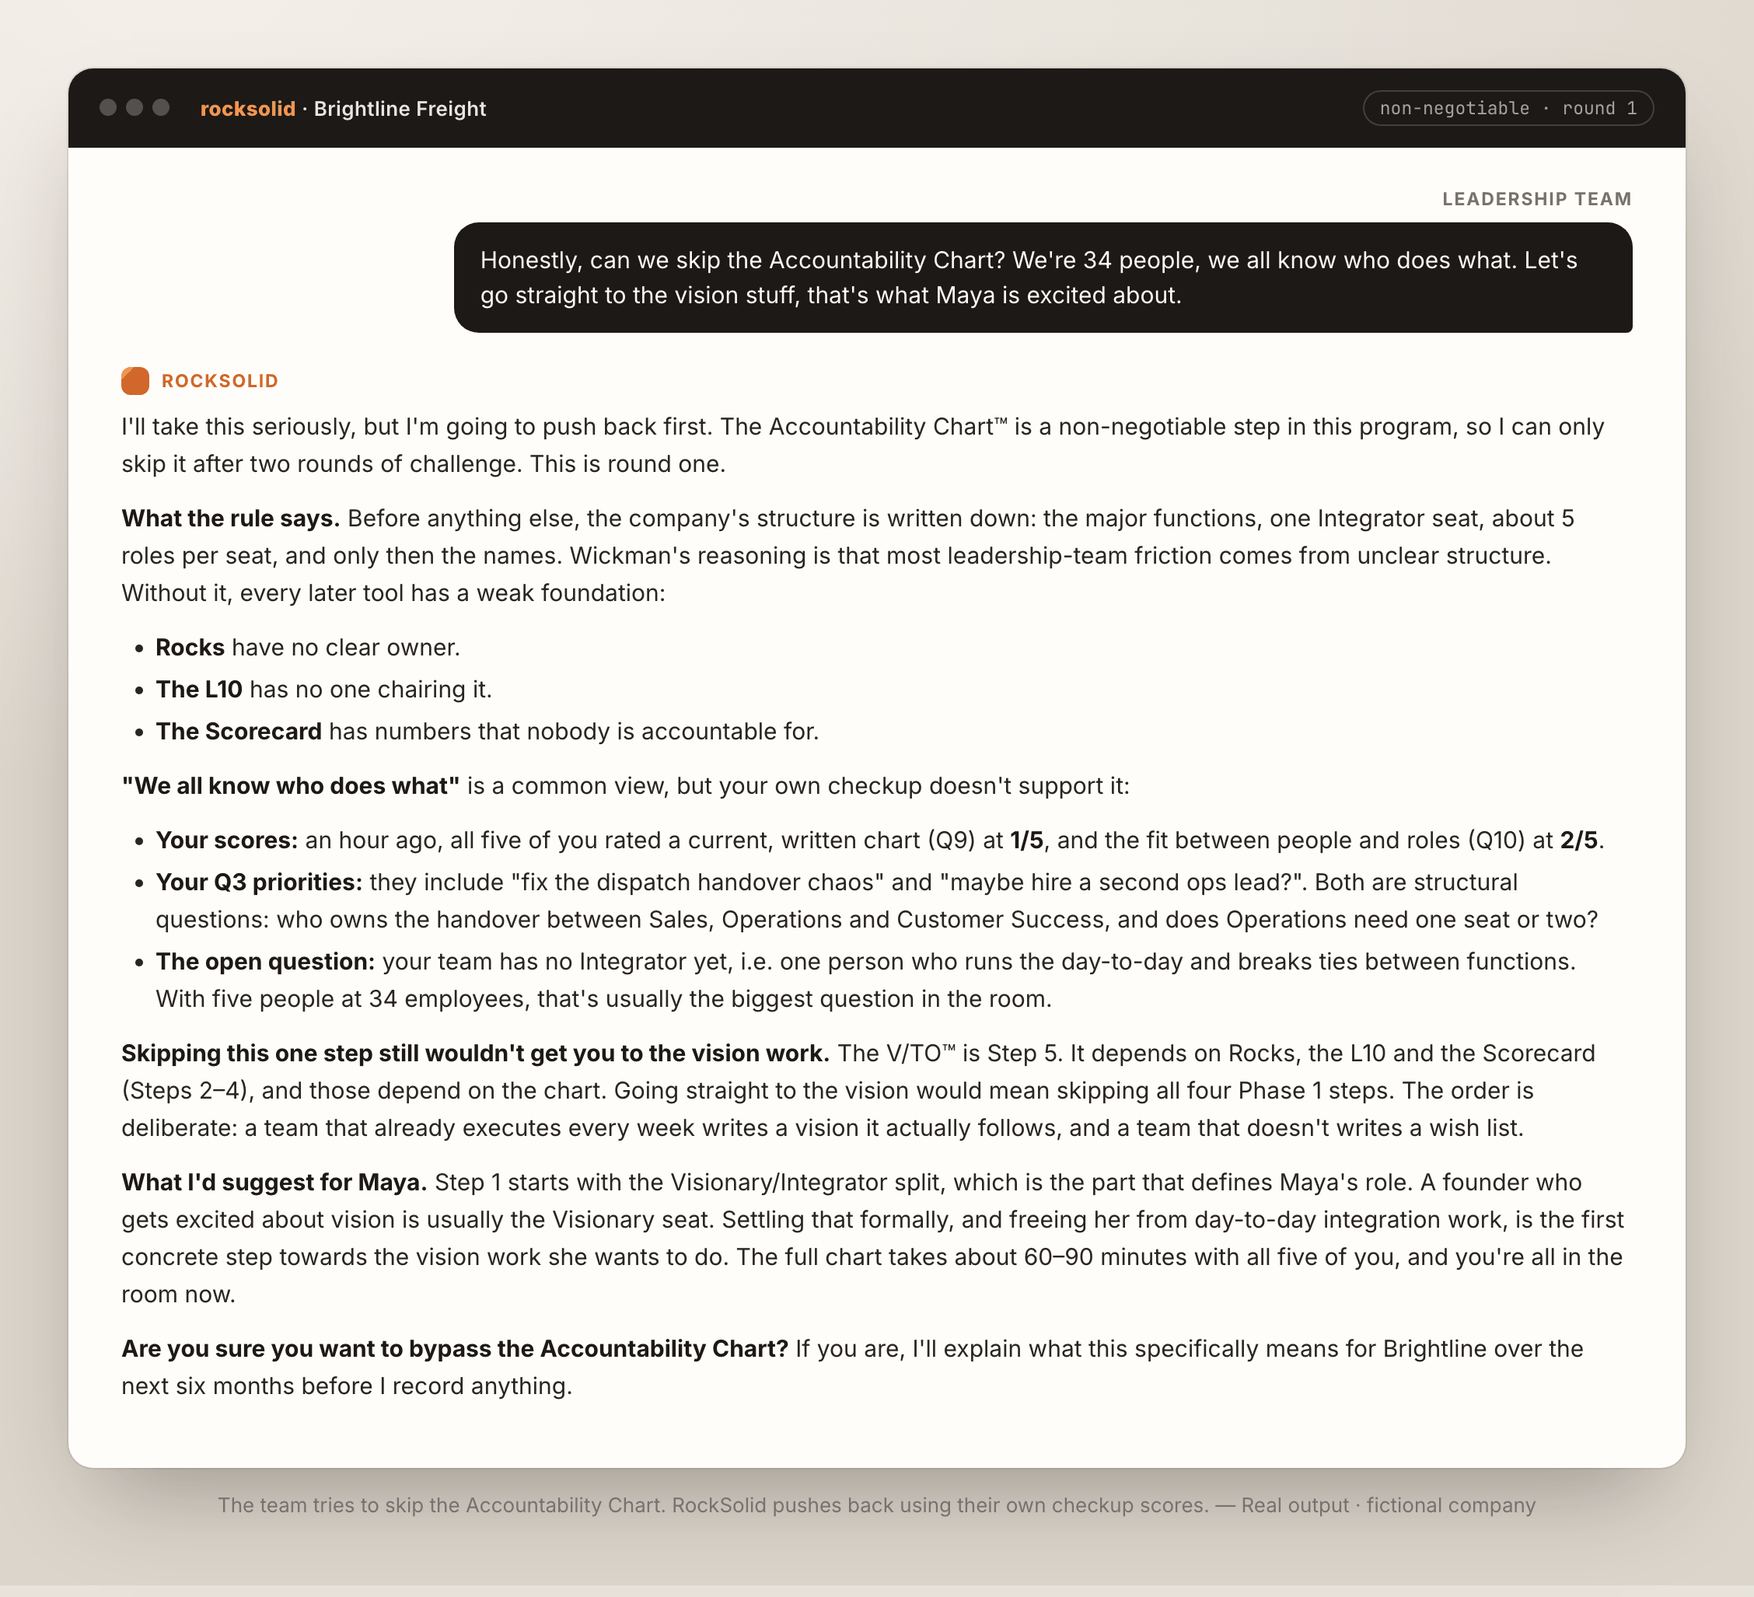
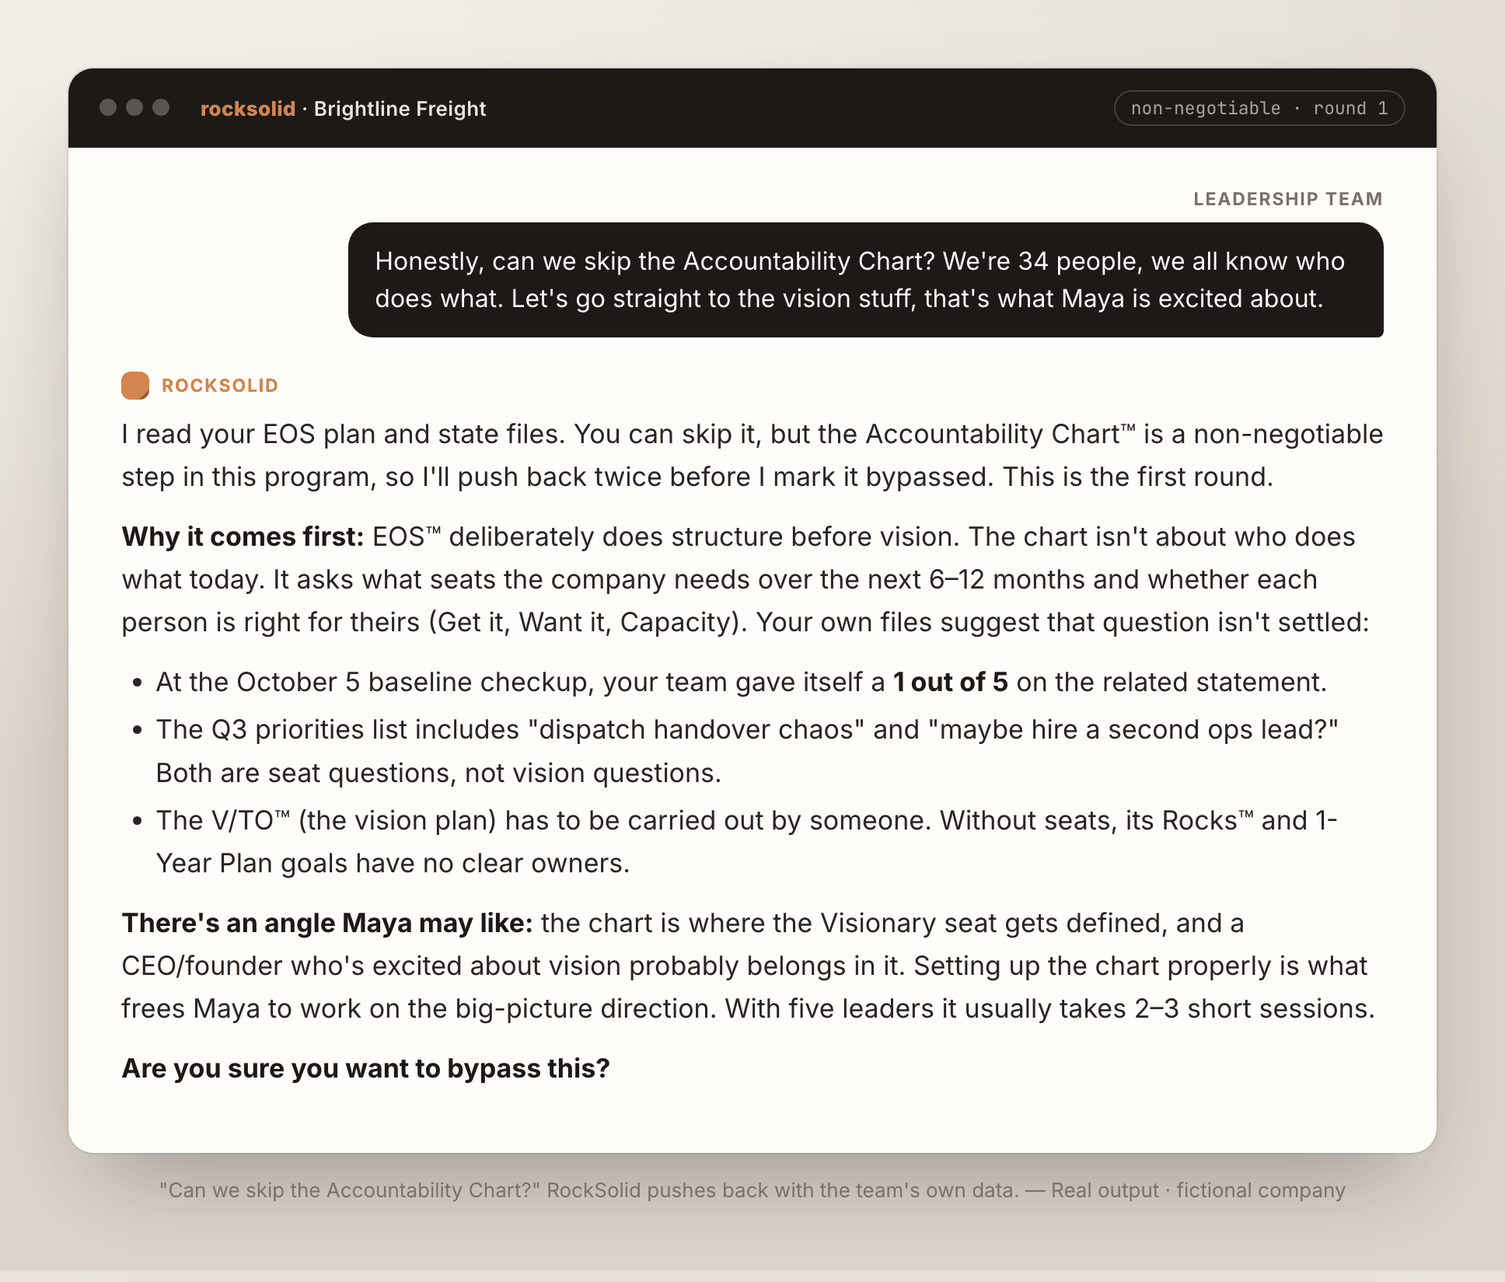
feat: L10 health check, short-by-default answers, concise demos (v1.1.0)
- L10 followup gives meeting-quality feedback: one thing that worked,
  max 3 fixes (time, lanes, IDS, priority, to-dos, rating, cascade)
- followup also derives Scorecard actuals and missing Issues/To-Dos
- new core rule: short by default (~150 words per turn)
- README demos replaced with two short real runs (bypass, L10 feedback)

Changed region(s): [[0.031, 0.0309, 0.9607, 0.9588]]

diff --git a/examples/02-bypass-challenge.md b/examples/02-bypass-challenge.md
@@ -1,8 +1,8 @@
 # The bypass challenge: "Can we skip the Accountability Chart?"
 
-Right after onboarding the team tries to skip straight to vision work. This is Round 1 of the two-round non-negotiable challenge — note how the skill argues with the team's *own* checkup scores and Q3 list.
+Right after onboarding the team tries to skip straight to vision work. This is Round 1 of the two-round non-negotiable challenge. The skill argues with the team's *own* checkup score and Q3 list.
 
-_Real, unedited output of the RockSolid skill run headless with `claude -p` on 2026-10-05. Company, people and numbers are fictional._
+_Real, unedited output of the RockSolid skill (v1.1.0) run headless with `claude -p` on 2026-10-05. Company, people and numbers are fictional._
 
 ---
 
@@ -12,22 +12,15 @@ _Real, unedited output of the RockSolid skill run headless with `claude -p` on 2
 
 ### 🪨 RockSolid
 
-I'll take this seriously, but I'm going to push back first. The Accountability Chart™ is a non-negotiable step in this program, so I can only skip it after two rounds of challenge. This is round one.
+I read your EOS plan and state files. You can skip it, but the Accountability Chart™ is a non-negotiable step in this program, so I'll push back twice before I mark it bypassed. This is the first round.
 
-**What the rule says.** Before anything else, the company's structure is written down: the major functions, one Integrator seat, about 5 roles per seat, and only then the names. Wickman's reasoning is that most leadership-team friction comes from unclear structure. Without it, every later tool has a weak foundation:
-- **Rocks** have no clear owner.
-- **The L10** has no one chairing it.
-- **The Scorecard** has numbers that nobody is accountable for.
+**Why it comes first:** EOS™ deliberately does structure before vision. The chart isn't about who does what today. It asks what seats the company needs over the next 6–12 months and whether each person is right for theirs (Get it, Want it, Capacity). Your own files suggest that question isn't settled:
+- At the October 5 baseline checkup, your team gave itself a **1 out of 5** on the related statement.
+- The Q3 priorities list includes "dispatch handover chaos" and "maybe hire a second ops lead?" Both are seat questions, not vision questions.
+- The V/TO™ (the vision plan) has to be carried out by someone. Without seats, its Rocks™ and 1-Year Plan goals have no clear owners.
 
-**"We all know who does what"** is a common view, but your own checkup doesn't support it:
-- **Your scores:** an hour ago, all five of you rated a current, written chart (Q9) at **1/5**, and the fit between people and roles (Q10) at **2/5**.
-- **Your Q3 priorities:** they include "fix the dispatch handover chaos" and "maybe hire a second ops lead?". Both are structural questions: who owns the handover between Sales, Operations and Customer Success, and does Operations need one seat or two?
-- **The open question:** your team has no Integrator yet, i.e. one person who runs the day-to-day and breaks ties between functions. With five people at 34 employees, that's usually the biggest question in the room.
+**There's an angle Maya may like:** the chart is where the Visionary seat gets defined, and a CEO/founder who's excited about vision probably belongs in it. Setting up the chart properly is what frees Maya to work on the big-picture direction. With five leaders it usually takes 2–3 short sessions.
 
-**Skipping this one step still wouldn't get you to the vision work.** The V/TO™ is Step 5. It depends on Rocks, the L10 and the Scorecard (Steps 2–4), and those depend on the chart. Going straight to the vision would mean skipping all four Phase 1 steps. The order is deliberate: a team that already executes every week writes a vision it actually follows, and a team that doesn't writes a wish list.
+**Are you sure you want to bypass this?**
 
-**What I'd suggest for Maya.** Step 1 starts with the Visionary/Integrator split, which is the part that defines Maya's role. A founder who gets excited about vision is usually the Visionary seat. Settling that formally, and freeing her from day-to-day integration work, is the first concrete step towards the vision work she wants to do. The full chart takes about 60–90 minutes with all five of you, and you're all in the room now.
-
-**Are you sure you want to bypass the Accountability Chart?** If you are, I'll explain what this specifically means for Brightline over the next six months before I record anything.
-
----
+Nothing has been written yet. Step 1 is still `in_progress`.

diff --git a/README.md b/README.md
@@ -14,7 +14,7 @@
   <img alt="Claude Skill" src="https://img.shields.io/badge/Claude-Skill-EA580C?style=flat-square">
   <img alt="Works in Cowork" src="https://img.shields.io/badge/works%20in-Cowork%20%C2%B7%20Claude%20Code%20%C2%B7%20claude.ai-1C1917?style=flat-square">
   <img alt="MIT License" src="https://img.shields.io/badge/license-MIT-78716C?style=flat-square">
-  <img alt="Version" src="https://img.shields.io/badge/version-1.0.0-FB923C?style=flat-square">
+  <img alt="Version" src="https://img.shields.io/badge/version-1.1.0-FB923C?style=flat-square">
 </p>
 
 ---
@@ -51,30 +51,13 @@ works more like a strict implementer:
 
 ## 🎬 See it in action
 
-### "Can we skip the Accountability Chart?" — *No. Here's why, with your own numbers.*
+### 1 · "Can we skip the Accountability Chart?" No, and here's why, with your own data.
 
-<img src="docs/images/bypass-challenge.png" alt="RockSolid pushing back on a request to skip the Accountability Chart, citing the team's own checkup scores" width="100%">
+<img src="docs/images/bypass-challenge.png" alt="RockSolid pushing back on a request to skip the Accountability Chart, citing the team's own checkup score" width="100%">
 
-### Monday morning: your L10 is prepped before you've had coffee
+### 2 · After the L10: honest feedback, three fixes for next Monday
 
-<img src="docs/images/l10-prep.png" alt="RockSolid preparing a Level 10 Meeting: multi-week red Scorecard numbers, off-track Rocks, forgotten to-dos" width="100%">
-
-<details>
-<summary><b>More screenshots:</b> tempo plan · scribe mode · substance check</summary>
-
-#### Onboarding ends with a dated, personal plan, not a lecture
-
-<img src="docs/images/tempo-plan.png" alt="Tempo recommendation with reasoning and a dated plan for all seven steps" width="100%">
-
-#### Scribe mode: a whiteboard photo becomes an Accountability Chart
-
-<img src="docs/images/scribe-mode.png" alt="RockSolid turning whiteboard notes into a structured Accountability Chart" width="100%">
-
-#### "Check my accountability chart": 6 of 10 checks pass, so the step isn't done
-
-<img src="docs/images/substance-check.png" alt="Substance rubric result: 6 passed, 4 open, step stays in progress" width="100%">
-
-</details>
+<img src="docs/images/l10-feedback.png" alt="RockSolid reviewing L10 meeting notes: what worked and three concrete improvements" width="100%">
 
 Full conversations: [`examples/`](examples/).
 
@@ -143,7 +126,8 @@ folder, which is the structure Claude's skill upload expects.
 | `start eos` | Onboarding: 20-statement Organizational Checkup™, workspace scan, tempo recommendation, your personal plan |
 | `continue` / `what's next` | Reads state, checks drift, offers what's due: an L10, quarter-end Rocks, or the next implementation step |
 | `prep my l10` | Builds this week's Level 10 agenda from your Scorecard, Rocks, to-dos and Issues List |
-| `l10 notes` | Turns your meeting notes into updated Rocks, Issues, to-dos and Scorecard |
+| `l10 notes` | Turns your meeting notes into updated Rocks, Issues, to-dos and Scorecard numbers |
+| `review our l10` | L10 health check: one thing that worked, max. 3 concrete fixes (time, IDS, to-dos, rating) |
 | `work on accountability chart` | Walks the team through structure first, then names, then GWC™ and People Analyzer™ |
 | `set rocks` | 3–7 SMART, binary Rocks per quarter, each tied to a seat on the chart |
 | `check my v/to` | Runs the substance rubric for that tool and tells you exactly what's missing |
@@ -204,6 +188,7 @@ plugins/rocksolid/skills/rocksolid/
 | [03 · Scribe mode](examples/03-scribe-mode-accountability-chart.md) | A whiteboard dump becomes `accountability-chart.md` |
 | [04 · Substance check](examples/04-substance-check.md) | Why a good-looking file can still fail the check |
 | [05 · L10 prep](examples/05-l10-prep.md) | Week 11: red numbers, off-track Rocks, a forgotten to-do |
+| [06 · L10 feedback](examples/06-l10-feedback.md) | A messy meeting, reviewed: problem-solving outside IDS, 25% to-do completion |
 | [Workspace, week 1](examples/brightline-week1/) · [week 11](examples/brightline-week11/) | The actual files RockSolid wrote: state, plan, chart, L10 agenda |
 
 ---

diff --git a/plugins/rocksolid/skills/rocksolid/cadences/weekly-l10.md b/plugins/rocksolid/skills/rocksolid/cadences/weekly-l10.md
@@ -22,6 +22,7 @@ The agent routes into this cadence on any of the following:
 - "run l10" (live note-taking mode during the meeting itself)
 - "update scorecard with this week's numbers"
 - "l10 followup" / "post l10"
+- "review our l10" / "l10 feedback" / "how was our l10" (Followup flow, health check first)
 - "l10" alone — ambiguous. The agent should detect day-of-week
   context (is today the scheduled L10 day? is it before or after
   the scheduled time?) and offer Prep, Run, or Followup
@@ -162,22 +163,57 @@ completed file. Extract:
 - Which issues were solved? (move to resolved in issues-list)
 - Which Rock statuses changed? (update rocks-q{current})
 - What new to-dos were created? (carry forward into NEXT week's
-  notes file stub)
+  notes file stub). Include solutions from IDS that never made it
+  onto the To-Do list.
 - Were any new rocks or escalated decisions created?
+- Which Scorecard actuals were reported? (write them into this
+  week's column of `scorecard.md`)
+- Which red numbers or off-track Rocks were *not* dropped to the
+  Issues List? (propose adding them)
+- Cascading messages and the meeting rating
 
-**Step 2 — Show the diff.** Before writing anything, show the user
-all proposed changes to `issues-list.md`, `rocks-q{current}.md`, and
-the next week's notes file. User confirms or corrects.
+**Step 2 — L10 Health Check (feedback).** Before showing the diff,
+review the notes as an experienced implementer would and give the
+team feedback on *how* they ran the meeting, not just what was in
+it. Check the notes against these signals (all from
+`../knowledge/eos-level-10-meeting.md` and `../knowledge/eos-ids-track.md`):
 
-**Step 3 — Write the changes.** Atomic writes, one file at a time.
+| Signal | Healthy | Smell |
+|---|---|---|
+| Time | Starts on time, ends at 90 min | Late start, overrun, IDS squeezed |
+| Lanes | Scorecard / Rocks / Headlines are reported, misses drop to the Issues List | Discussion or problem-solving outside IDS |
+| IDS | Each issue ends in a To-Do, a Rock, or a decision | "Discussed, carried over"; same issue 2+ weeks |
+| Priority | Top 3 by importance first | Easy issues first, the big one never reached |
+| To-Dos | Owner + due within 7 days; ≥ 90% done week over week | No owner/date, many carried over |
+| Rating | Average ≥ 8, every < 8 explained | Low ratings without a reason |
+| Cascade | Messages for the company written down | Nothing cascaded |
+
+Output format, kept short:
+- **One thing that worked** (one line, with the evidence).
+- **Max 3 improvements**, most impactful first. Each one: what you
+  saw in the notes → why it matters (one clause) → the concrete
+  change for next week.
+- Offer to bake the changes into next week's prep (e.g. timing
+  prompts, a "drop it" reminder in the Scorecard section).
+
+Log the check under `cadences_active.weekly_l10.health_history` in
+`eos-state.md` (`date`, `rating_avg`, `todo_completion`, `smells`).
+If the same smell appears 3 weeks in a row, lead with it next time.
+
+**Step 3 — Show the diff.** Before writing anything, show the user
+all proposed changes to `issues-list.md`, `rocks-q{current}.md`,
+`scorecard.md`, and the next week's notes file. User confirms or
+corrects.
+
+**Step 4 — Write the changes.** Atomic writes, one file at a time.
 After each write, the agent notes it to the user.
 
-**Step 4 — Update state.** Update `eos-state.md`:
+**Step 5 — Update state.** Update `eos-state.md`:
 - `cadences_active.weekly_l10.last_run: {meeting_date}`
 - `cadences_active.weekly_l10.next_due: {meeting_date + 7 days}`
 - Increment the L10 run count
 
-**Step 5 — Check rubric progress.** If this is an early L10 (during
+**Step 6 — Check rubric progress.** If this is an early L10 (during
 Phase 1 Step 3 installation), count the populated notes files in
 `l10-notes/`. Once 4 exist with real content, the Tool 3 substance
 check for "L10 has actually been run" passes and the agent reports

diff --git a/examples/06-l10-feedback.md b/examples/06-l10-feedback.md
@@ -1,0 +1,67 @@
+# L10 feedback: "Honest feedback, how did we do?"
+
+Week 11. The team ran its L10 (moved to 14:00 that day) and wrote quick notes. RockSolid runs its **L10 Health Check**: time, lanes, IDS, priority, to-dos, rating, cascade. It returns one thing that worked and at most three fixes.
+
+_Real, unedited output of the RockSolid skill (v1.1.0) run headless with `claude -p` on 2026-10-05. Company, people and numbers are fictional._
+
+## Input: the team's meeting notes
+
+```markdown
+# L10 — 2026-10-05 (moved to 14:00)
+Attendees: Maya, Jonas, Priya, Leo, Sam · Start 14:12 · End 16:05
+
+## Segue
+Done. Sam: Kessler plant 3 went live Friday.
+
+## Scorecard
+Sales conv. 10 · proposals 3 · loads 388 · on-time 91.9% · uncovered shifts 3 · claims >10d 6 · Kessler plants 3 · cash 455k · invoices >60d 47k
+Long discussion about on-time % (~20 min) — Jonas thinks weekend shifts are the cause, Priya thinks it's carrier no-shows.
+
+## Rock review
+C3 Ops lead hire: off track. We talked about which recruiters to try, maybe LinkedIn ads (~15 min).
+Leo collections: off track. Rest on track.
+
+## Headlines
+Kessler plant 3 live. Dispatcher Tom resigned (last day Oct 30).
+
+## To-Do review (from Sep 28)
+- Jonas: brief second recruiter — not done
+- Leo: call Fischer + Nordtex — not done
+- Sam: list claims >10 days with root cause — done
+- Jonas: on-call rota draft — not done
+
+## IDS
+1. Weekend dispatcher coverage — discussed again. Jonas will think about options.
+(ran out of time, #2 Ops lead pipeline and #3 late payers not reached)
+
+## New To-Dos
+- look into recruiter options
+- Leo: call Fischer + Nordtex (again)
+
+## Rating
+Maya 6 · Jonas 7 · Priya 5 · Leo 7 · Sam 6
+```
+
+---
+
+### 🧑💼 Leadership team
+
+> We just had our L10. Notes are in eos-deliverables/l10-notes/2026-10-05.md. Honest feedback: how did we do?
+
+### 🪨 RockSolid
+
+This was a weak L10. The average rating fell from 7.6 to 6.2, and it's the first one where the process slipped instead of improving.
+
+**What worked:** All five of you came, even after moving the meeting for Kessler. Sam finished the claims list, and every Scorecard number and Rock was reported.
+
+**Three things to fix, biggest first:**
+
+1. **You problem-solved outside IDS™.** You spent about 20 minutes on on-time % during the Scorecard and about 15 on recruiters during Rocks. Those are your Issues #2 and #1. You discussed both without solving either, and the time went with them. You started 12 minutes late, ran 23 minutes over, and never reached #2 or #3. **Next week:** each Scorecard and Rock item gets one sentence of status. If it's red or off track, it goes on the Issues List and gets talked about only in IDS.
+
+2. **Weekend coverage went backwards.** On Sep 28 it was solved: Jonas would draft an on-call rota. That didn't happen. This week it became "Jonas will think about options," and the rota isn't on the new To-Do list at all. With Tom leaving on Oct 30, the weekend problem gets worse. **Next week:** put it first in IDS and don't close it without an owner, a date and a decision.
+
+3. **To-Dos aren't sticking.** Only 1 of 4 was done (25%; the target is 90% or more). The new "look into recruiter options" has no owner and no date. Two of the three misses are Jonas's, and he's covering two seats right now. That's worth an IDS conversation of its own.
+
+You also didn't note why anyone rated below 8, and you recorded no messages to pass on to the rest of the company.
+
+I saved this check to `eos-state.md` under `health_history`. I haven't changed the Scorecard, Rocks or Issues List yet. Want me to do that and build these fixes into next Monday's prep?

diff --git a/plugins/rocksolid/skills/rocksolid/SKILL.md b/plugins/rocksolid/skills/rocksolid/SKILL.md
@@ -82,6 +82,13 @@ implementation and indefinitely after it.
    English names in every language. This skill's own files are
    English.
 
+10. **Short by default.** Founders read this between meetings. Lead
+    with the verdict or the one question that matters. Aim for
+    roughly 150 words per turn, at most 3 bullets per list, and one
+    question at a time. Put detail into the deliverable file, not the
+    chat, and offer "want the details?" instead of dumping it. Plans
+    and rubric results may run longer, but stay scannable.
+
 ## Entry Protocol
 
 Every time this skill is invoked, follow this protocol:
@@ -170,6 +177,7 @@ greeting and offers options based on state + time.
 | "everyone has a number", "measurables directory" | Phase 3 Step 7 flow |
 | "prep l10", "prepare this week's l10", "l10 prep" | `cadences/weekly-l10.md` Prework flow |
 | "l10 notes", "after l10", "l10 followup" | `cadences/weekly-l10.md` Followup flow |
+| "review our l10", "l10 feedback", "how was our l10" | `cadences/weekly-l10.md` Followup flow (health check first) |
 | "quarterly planning", "set next quarter rocks", "quarterly session" | `cadences/quarterly-planning.md` |
 | "state of company", "vision cascade" | `cadences/quarterly-state-of-company.md` |
 | "annual planning", "annual session" | `cadences/annual-planning.md` |

diff --git a/CHANGELOG.md b/CHANGELOG.md
@@ -1,5 +1,18 @@
 # Changelog
 
+## 1.1.0 — 2026-10-05
+
+- **L10 Health Check:** after a meeting ("review our l10", "l10 notes")
+  RockSolid reviews *how* the team ran it (time, segment discipline,
+  IDS resolution, priority, to-do completion, rating, cascade) and
+  returns one thing that worked plus at most three concrete fixes.
+  Logged in `health_history`; recurring smells are raised first.
+- L10 followup now also derives Scorecard actuals, unlisted red numbers
+  and off-track Rocks, and IDS solutions missing from the To-Do list.
+- **Short by default:** new core rule, about 150 words per turn, verdict
+  first, details go into files.
+- Shorter, easier-to-read README demos.
+
 ## 1.0.0 — 2026-10-05
 
 First public release.

diff --git a/examples/README.md b/examples/README.md
@@ -11,6 +11,7 @@ brokerage, 34 employees, 5-person leadership team, Hamburg).
 | [03-scribe-mode-accountability-chart.md](03-scribe-mode-accountability-chart.md) | Whiteboard notes → structured chart, decisions, file written |
 | [04-substance-check.md](04-substance-check.md) | `check my accountability chart` → 6/10, step stays in progress |
 | [05-l10-prep.md](05-l10-prep.md) | Week 11 Monday L10 prep |
+| [06-l10-feedback.md](06-l10-feedback.md) | The L10 health check on a messy meeting |
 
 ## Workspaces
 
